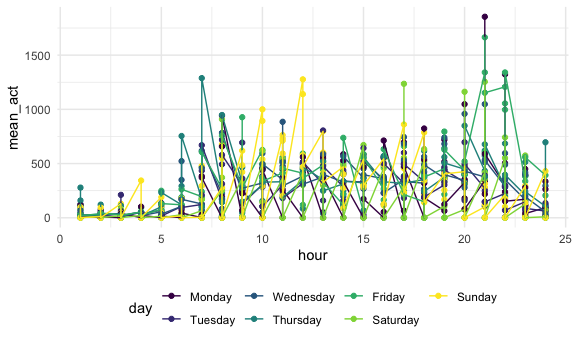
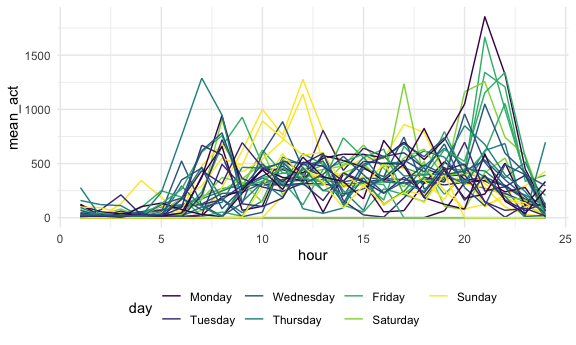
revised p2 and p3, need to add more description

diff --git a/p8105_hw3_yw3436.md b/p8105_hw3_yw3436.md
@@ -21,6 +21,7 @@ library(tidyverse)
 
 ``` r
 library(p8105.datasets)
+library(patchwork)
 
 knitr::opts_chunk$set(
   fig.width = 6,
@@ -189,25 +190,21 @@ accel_total_day
 |    4 | 409450.0 | 319568.0 |    434460 | 340291.0 | 154049.0 |     1440 | 260617 |
 |    5 | 389080.0 | 367824.0 |    445366 | 549658.0 | 620860.0 |     1440 | 138421 |
 
-\#\#\#\#not sure about this From the table we built for the totals, we
-found that generally speaking, participants tend to do more activity on
-Fridays and have the lowest activity counts on Saturdays.
+\#\#\#\#not sure about this say the 1440 things here From the table we
+built for the totals, we found that generally speaking, participants
+tend to do more activity on Fridays and have the lowest activity counts
+on Saturdays.
 
 ``` r
 accel_df %>% 
   mutate(
     hour = ceiling(minute/60)
   ) %>% 
-  group_by(week, day, hour) %>% 
-  summarize(
-    mean_act = mean(activity)
-  ) %>% 
-  ggplot(aes(x = hour, y = mean_act, color = day)) +
-  geom_point() +
+  group_by(day_id, hour) %>% 
+  mutate(mean_act = mean(activity)) %>% 
+  ggplot(aes(x = hour, y = mean_act, color = day, group = day_id)) +
   geom_line()
 ```
-
-    ## `summarise()` regrouping output by 'week', 'day' (override with `.groups` argument)
 
 <img src="p8105_hw3_yw3436_files/figure-gfm/unnamed-chunk-9-1.png" width="90%" />
 
@@ -219,38 +216,24 @@ First, load the ny\_noaa data set and do data cleaning about it.
 
 ``` r
 data("ny_noaa")
-ny_noaa %>% 
+noaa_df = ny_noaa %>% 
   separate(date, c("year", "month", "day"), "-") %>% 
   mutate(year = as.integer(year),
          month = as.integer(month),
          day = as.integer(day)) %>%
   mutate(tmax = as.numeric(tmax),
-         tmin = as.numeric(tmin))
-```
-
-    ## # A tibble: 2,595,176 x 9
-    ##    id           year month   day  prcp  snow  snwd  tmax  tmin
-    ##    <chr>       <int> <int> <int> <int> <int> <int> <dbl> <dbl>
-    ##  1 US1NYAB0001  2007    11     1    NA    NA    NA    NA    NA
-    ##  2 US1NYAB0001  2007    11     2    NA    NA    NA    NA    NA
-    ##  3 US1NYAB0001  2007    11     3    NA    NA    NA    NA    NA
-    ##  4 US1NYAB0001  2007    11     4    NA    NA    NA    NA    NA
-    ##  5 US1NYAB0001  2007    11     5    NA    NA    NA    NA    NA
-    ##  6 US1NYAB0001  2007    11     6    NA    NA    NA    NA    NA
-    ##  7 US1NYAB0001  2007    11     7    NA    NA    NA    NA    NA
-    ##  8 US1NYAB0001  2007    11     8    NA    NA    NA    NA    NA
-    ##  9 US1NYAB0001  2007    11     9    NA    NA    NA    NA    NA
-    ## 10 US1NYAB0001  2007    11    10    NA    NA    NA    NA    NA
-    ## # … with 2,595,166 more rows
-
-``` r
+         tmin = as.numeric(tmin),
+         month = month.name[month]) %>% 
+  mutate(tmax = tmax/10,
+         tmin = tmin/10,
+         prcp = prcp/10)
 ## What does it mean by making sure xx are given in reasonable unit?
 ```
 
 Next, check what are the most commonly observed values for snowfall.
 
 ``` r
-ny_noaa %>% 
+noaa_df %>% 
   count(snow, name = "snow_num") %>% 
   mutate(rank = min_rank(desc(snow_num))) %>% 
   arrange(rank)
@@ -275,3 +258,56 @@ ny_noaa %>%
 
 For snowfall, 0 is the most commonly observed value, because for most
 days in a year, there is no snowfall.?????????????/
+
+Make a two-panel plot showing the average max temperature in January and
+in July in each station across years
+
+``` r
+noaa_df %>% 
+  filter(month == c("January", "July")) %>% 
+  group_by(id, month, year) %>% 
+  summarize(tmax_mean = mean(tmax, na.rm = TRUE)) %>% 
+  #na.omit() 
+  ggplot(aes(x = year, y = tmax_mean, group = id)) +
+  geom_line(alpha = 0.3) +
+  facet_grid(month ~ .)
+```
+
+    ## `summarise()` regrouping output by 'id', 'month' (override with `.groups` argument)
+
+    ## Warning: Removed 5641 row(s) containing missing values (geom_path).
+
+<img src="p8105_hw3_yw3436_files/figure-gfm/unnamed-chunk-12-1.png" width="90%" />
+
+``` r
+########should I delete these nan values?
+```
+
+Description:
+
+Make a two-panel plot showing (i) tmax vs tmin for the full dataset
+(note that a scatterplot may not be the best option); and (ii) make a
+plot showing the distribution of snowfall values greater than 0 and less
+than 100 separately by year.
+
+``` r
+tmax_min_p = noaa_df %>% 
+  na.omit(tmax,tmin) %>% 
+  select(tmax, tmin) %>% 
+  ggplot(aes(x = tmin, y = tmax)) +
+  geom_bin2d()
+
+
+snowfall_df = noaa_df %>% 
+  filter(0 < snow, snow < 100) %>% 
+  group_by(year) %>% 
+  select(year, snow) %>% 
+  mutate(year = as.character(year)) %>% 
+  ggplot(aes(x = year, y = snow)) +
+  geom_boxplot() +  
+  theme(axis.text.x = element_text(angle = 90, vjust = .5, hjust = 1))
+
+tmax_min_p / snowfall_df
+```
+
+<img src="p8105_hw3_yw3436_files/figure-gfm/unnamed-chunk-13-1.png" width="90%" />
